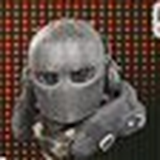
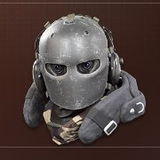
MW4 Hajin: a clearer Argonaut Armor picture and its $7,500 value; silent
From Elvis COD's in-game screenshot. hajin 0.9.51

Claude-Session: https://claude.ai/code/session_01H5UBktk2MSfwA7ovSp2JDR

diff --git a/MW4CamoTracker/Tools/hajin/video_data.py b/MW4CamoTracker/Tools/hajin/video_data.py
@@ -887,7 +887,7 @@ def tier_upgrades(guide, items):
 
 # Sell prices listed on dmzcodex.com item pages (2026-10-21) for ingredients
 # the in-game screens we read didn't price
-SELL_VALUES = {"biomaterials": 800, "cpu": 500, "infantry-invasion-plans": 1000, "military-composites": 3500,
+SELL_VALUES = {"argonaut-armor": 7500, "biomaterials": 800, "cpu": 500, "infantry-invasion-plans": 1000, "military-composites": 3500,
                "nuclear-program-files": 2000, "nylon-cloth": 1000,
                # from the user, read in game (2026-10-22)
                "alloyed-plating": 1500, "ballistic-fabric": 1500, "binding-catalyst": 500, "comms-module": 1500,
@@ -914,7 +914,7 @@ def new_pictures(items):
     have = {os.path.basename(f)[:-4] for f in glob.glob(os.path.join(os.path.dirname(os.path.abspath(__file__)), "..", "..", "..", "Images", "DMZ", "*.png"))}
     for it in items:
         if "image" not in it and it["id"] in have:
-            it["image"] = IMG_BASE + it["id"] + (".png?v=2" if it["id"] in ("bales-dog-tag",) else ".png?v=1")
+            it["image"] = IMG_BASE + it["id"] + (".png?v=2" if it["id"] in ("bales-dog-tag", "argonaut-armor") else ".png?v=1")
             it.pop("symbol", None) if it["kind"] != "Key" else None
 
 

diff --git a/MW4CamoTracker/Tools/hajin/build_hajin.py b/MW4CamoTracker/Tools/hajin/build_hajin.py
@@ -504,7 +504,7 @@ _vd.fob_pictures(items)
 _vd.key_sources(items, markers, CODEX["keys"])
 
 cats = [{"id": c[0], "name": c[1], "symbol": c[2], "color": c[3], "visible": c[5], **({"blurb": CAT_BLURB[c[0]]} if c[0] in CAT_BLURB else {})} for c in CATS]
-data = {"version": "0.9.50", "updated": "2026-11-06",
+data = {"version": "0.9.51", "updated": "2026-11-06",
         "map": {"image": "hajin_map", "credit": "Map: Activision Hajin DMZ Tac Map"},
         "threatLevels": ["Low", "Medium", "High", "Critical", "Extreme"],
         "categories": cats, "markers": markers, "guide": guide, "items": items, "traitTrees": trees, "traits": traits}
